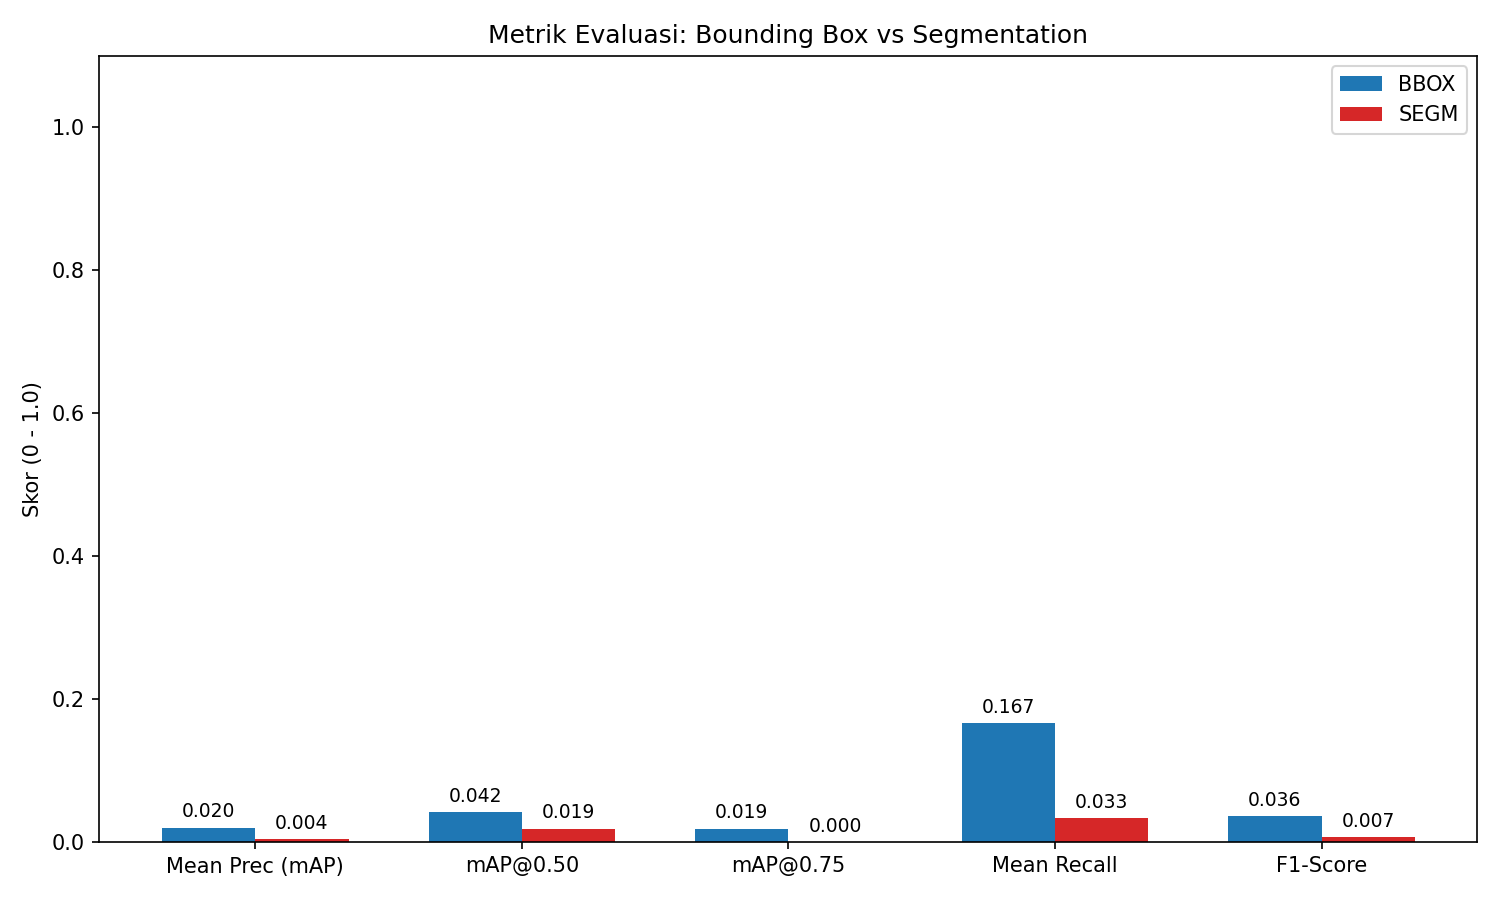
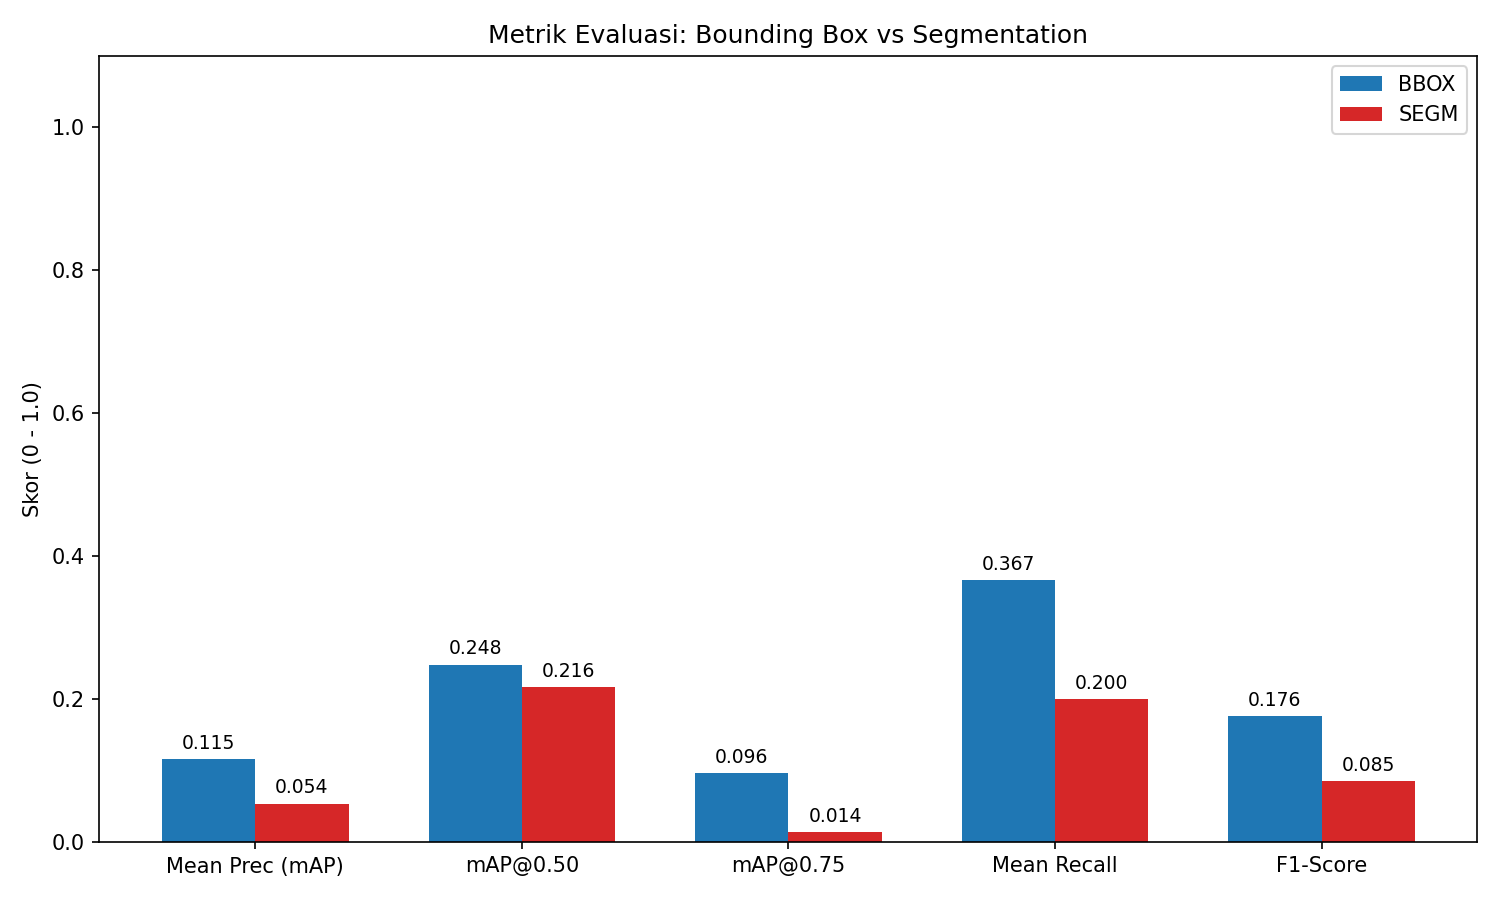
epoch : 50, best model val loss 0,7

diff --git a/train.py b/train.py
@@ -11,7 +11,7 @@ from model import get_model
 CONFIG = {
     'data_dir'     : 'data',
     'num_classes'  : 7,          
-    'num_epochs'   : 100,
+    'num_epochs'   : 50,
     'batch_size'   : 2,          
     'lr'           : 0.001,
     'momentum'     : 0.9,
